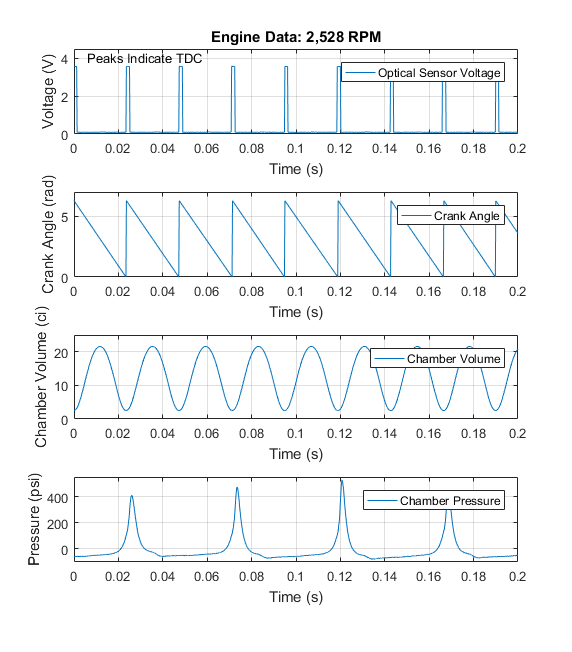
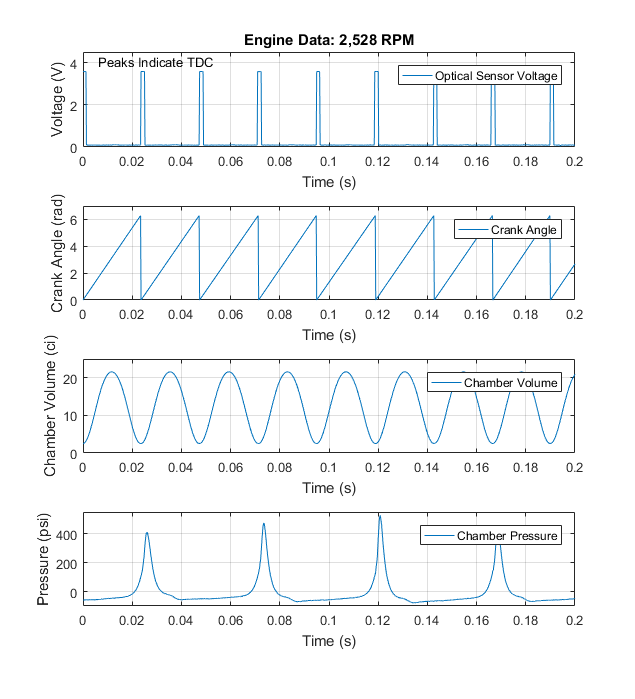
code for deliverable 3b is done:

diff --git a/lab4.m b/lab4.m
@@ -47,7 +47,7 @@ for i = 1:1:20
     for j = cycleStarts(i):cycleStarts(i+1)-1
         tp2 = time(cycleStarts(i+1)-1);
         tp1 = time(cycleStarts(i));
-        crankAngle(j) = 2*pi*((tp2-time(j))/(tp2-tp1));
+        crankAngle(j) = 2*pi*(1-((tp2-time(j))/(tp2-tp1)));
         
     end
 end
@@ -217,16 +217,37 @@ grid on
 [avgW1100,avgP1100,stdW1100,stdP1100] = del2('1100rpm.lvm');
 
 %% Deliverable 3
+%Assuming all the energy in the fuel gets converted to work
 
-%finding the amount of air in the combustion chamber
-volume = displacement/2; %volume of a single cylinder in cubic inches
-rhoAir = 0.021186834; %grams per cubic inch
+%mass of fuel burned per some time interval for each engine speed
+fb1100 = 13215-13151;
+fb1000 = 13090-13003;
+fb900 = 12940-12865;
+fb800 = 12828-12762;
+fb700 = 12730-12670;
+fb600 = 12615-12565;
+fb500 = 12544-12501;
+fMass = [fb1100; fb1000; fb900; fb800; fb700; fb600; fb500;]; %first element in this array is the highest speed
+timeInt = 60; %seconds, the time interval of the test
+gassMass = fMass/timeInt; %the mass of gasoline burned per second for each RPM (g/s)
 
-airMass = volume*rhoAir; %mass of air in grams that is inducted into the
-%engine every intake stroke
+RPMs = [1100; 1000; 900; 800; 700; 600; 500;]*3.16; %engine RPMs corresponding to the fuel burn rates
+RPSs = RPMs/60; %engine speed, converting these values to rotations per second
+massPerCycle = (gassMass./RPSs)/2; %grams per rotation - the amount of fuel burned per thermodynamic cycle, per cylinder.
+% Divided by two because every other mechanical cycle is a combustion cycle
+% (4-stroke).
 
-%mixture ratio air:fuel = 14.7:1
-mixture = 1/15.7; %amount of fuel (g) needed for 
+
+
+
+
+
+
+
+gasSE = 46; %kJ/g, specific energy of gasoline
+
+
+
 
 
 
